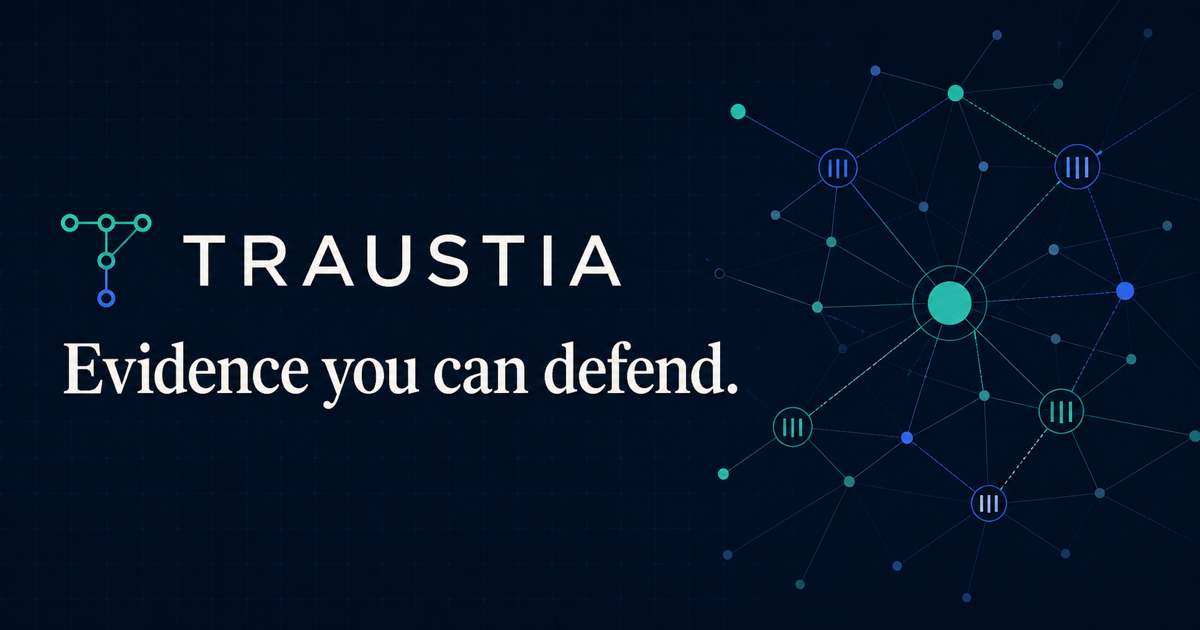
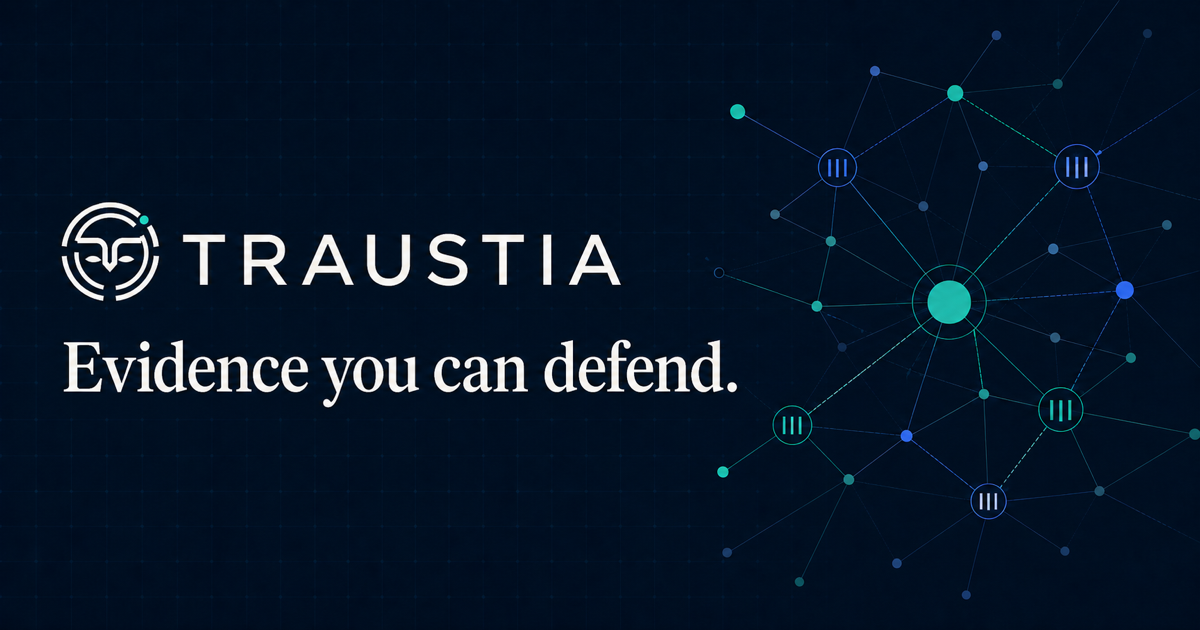
Unify Traustia around the owl Evidence Disc (#5)
Replace the old banner and scroll-rail symbols with the owl Evidence Disc, add a restrained orbiting evidence node, and preserve reduced-motion support.

diff --git a/src/styles.css b/src/styles.css
@@ -216,6 +216,11 @@ em {
   animation: evidence-node-resolve 3.2s ease-in-out infinite;
 }
 
+.brand-disc-node-orbit {
+  transform-origin: 128px 128px;
+  animation: evidence-node-orbit 12s linear infinite;
+}
+
 .wordmark:hover .brand-disc-ring-outer {
   animation: none;
   transform: rotate(9deg);
@@ -240,6 +245,18 @@ em {
 @keyframes evidence-node-resolve {
   0%, 72%, 100% { opacity: .82; transform: scale(.92); }
   82% { opacity: 1; transform: scale(1.18); }
+}
+
+@keyframes evidence-node-orbit {
+  to { transform: rotate(360deg); }
+}
+
+@keyframes scroll-orbit {
+  to { transform: rotate(360deg); }
+}
+
+@keyframes scroll-orbit-reverse {
+  to { transform: rotate(-360deg); }
 }
 
 .primary-nav {
@@ -980,84 +997,32 @@ em {
   position: absolute;
   left: 0;
   top: calc(var(--rail-progress) * 100%);
-  width: 46px;
-  height: 46px;
+  width: 52px;
+  height: 52px;
   transform: translate(-50%, -50%);
   transition: top 80ms linear, filter 450ms ease;
 }
 
-.scroll-object-orbit {
-  position: absolute;
-  inset: 5px;
-  border: 1px solid rgba(53, 197, 180, 0.52);
-  border-radius: 50%;
-  transition: inset 500ms ease, border-radius 500ms ease, border-color 500ms ease, transform 500ms ease;
-}
-
-.scroll-object-orbit.orbit-primary {
-  animation: scroll-orbit 8s linear infinite;
-}
-
-.scroll-object-orbit.orbit-secondary {
-  inset: 11px 1px;
-  border-color: rgba(91, 124, 250, 0.4);
-  animation: scroll-orbit-reverse 11s linear infinite;
-}
-
-.scroll-object-orbit::after {
-  content: "";
-  position: absolute;
-  width: 3px;
-  height: 3px;
-  right: 1px;
-  top: 3px;
-  border-radius: 50%;
-  background: var(--blue);
-  box-shadow: 0 0 8px var(--blue);
-}
-
-@keyframes scroll-orbit {
-  to { transform: rotate(360deg); }
-}
-
-@keyframes scroll-orbit-reverse {
-  to { transform: rotate(-360deg); }
-}
-
 .scroll-object-halo {
   position: absolute;
-  inset: -10px;
+  inset: -8px;
   border-radius: 50%;
-  background: radial-gradient(circle, rgba(53, 197, 180, 0.2), transparent 66%);
+  background: radial-gradient(circle, rgba(53, 197, 180, 0.22), transparent 68%);
   filter: blur(2px);
-  transition: opacity 500ms ease, transform 500ms ease;
+  transition: opacity 500ms ease, transform 500ms ease, background 500ms ease;
 }
 
-.scroll-object-core {
+.scroll-object > .brand-mark {
   position: absolute;
-  width: 10px;
-  height: 10px;
-  left: 18px;
-  top: 18px;
-  border-radius: 50%;
-  background: var(--teal);
-  box-shadow: 0 0 0 4px rgba(53, 197, 180, 0.12), 0 0 14px rgba(53, 197, 180, 0.9);
-  transition: width 500ms ease, height 500ms ease, left 500ms ease, top 500ms ease, border-radius 500ms ease, background 500ms ease, box-shadow 500ms ease;
+  inset: 0;
+  width: 52px;
+  height: 52px;
+  color: var(--white);
+  filter: drop-shadow(0 8px 14px rgba(0, 0, 0, .38));
+  transition: color 500ms ease, filter 500ms ease, transform 500ms ease;
 }
 
-.scroll-object-satellite {
-  position: absolute;
-  width: 3px;
-  height: 3px;
-  border-radius: 50%;
-  background: var(--teal);
-  transition: inset 500ms ease, transform 500ms ease, opacity 500ms ease, background 500ms ease;
-}
-
-.satellite-one { left: -2px; top: 21px; }
-.satellite-two { right: -1px; top: 7px; background: var(--blue); }
-.satellite-three { right: 3px; bottom: 2px; }
-.satellite-four { left: 8px; top: 1px; background: var(--blue); }
+.scroll-object .brand-disc-ring-inner { opacity: .6; }
 
 .scroll-phase-readout {
   position: absolute;
@@ -1096,33 +1061,11 @@ em {
   white-space: nowrap;
 }
 
-.scroll-evidence-rail[data-phase="0"] .satellite-one { transform: translate(-7px, 2px); }
-.scroll-evidence-rail[data-phase="0"] .satellite-two { transform: translate(5px, -4px); }
-.scroll-evidence-rail[data-phase="0"] .satellite-three { transform: translate(6px, 6px); }
-.scroll-evidence-rail[data-phase="1"] .orbit-secondary { inset: 8px 0; border-radius: 38%; }
-.scroll-evidence-rail[data-phase="1"] .satellite-four { transform: translate(7px, 4px); }
-.scroll-evidence-rail[data-phase="2"] .scroll-object-core {
-  background: #f0bd70;
-  box-shadow: 0 0 0 6px rgba(240, 189, 112, 0.1), 0 0 18px rgba(240, 189, 112, 0.82);
-}
-.scroll-evidence-rail[data-phase="2"] .scroll-object-orbit { border-style: dashed; }
-.scroll-evidence-rail[data-phase="3"] .scroll-object-core {
-  width: 14px;
-  height: 14px;
-  left: 16px;
-  top: 16px;
-}
 .scroll-evidence-rail[data-phase="3"] .scroll-object-halo { transform: scale(1.35); }
-.scroll-evidence-rail[data-phase="4"] .scroll-object-core {
-  width: 16px;
-  height: 16px;
-  left: 15px;
-  top: 15px;
-  border-radius: 4px;
-  background: var(--white);
-  box-shadow: 0 0 0 5px rgba(53, 197, 180, 0.18), 0 0 22px rgba(53, 197, 180, 0.9);
+.scroll-evidence-rail[data-phase="4"] .scroll-object > .brand-mark {
+  color: var(--teal);
+  filter: drop-shadow(0 0 14px rgba(53, 197, 180, .5));
 }
-.scroll-evidence-rail[data-phase="4"] .scroll-object-orbit { border-radius: 24%; }
 
 .scroll-evidence-rail ol {
   position: absolute;
@@ -3990,5 +3933,6 @@ em {
   .banner-scan,
   .risk-console::after { display: none; }
   .brand-disc-ring-outer,
+  .brand-disc-node-orbit,
   .brand-disc-node { animation: none !important; }
 }

diff --git a/src/components/TraustiaSite.tsx b/src/components/TraustiaSite.tsx
@@ -32,7 +32,9 @@ function BrandMark() {
           <path d="M75 141c10-10 26-10 36 2-13 7-27 6-36-2Z" />
           <path d="M181 141c-10-10-26-10-36 2 13 7 27 6 36-2Z" />
         </g>
-        <circle className="brand-disc-node" cx="205" cy="57" r="9" />
+        <g className="brand-disc-node-orbit">
+          <circle className="brand-disc-node" cx="205" cy="57" r="9" />
+        </g>
       </svg>
     </span>
   );
@@ -181,13 +183,7 @@ function ScrollEvidenceRail() {
         <span className="scroll-rail-fill" />
         <span className="scroll-object">
           <span className="scroll-object-halo" />
-          <span className="scroll-object-orbit orbit-primary" />
-          <span className="scroll-object-orbit orbit-secondary" />
-          <span className="scroll-object-core" />
-          <span className="scroll-object-satellite satellite-one" />
-          <span className="scroll-object-satellite satellite-two" />
-          <span className="scroll-object-satellite satellite-three" />
-          <span className="scroll-object-satellite satellite-four" />
+          <BrandMark />
           <span className="scroll-phase-readout">
             <span>{String(activeIndex + 1).padStart(2, "0")}</span>
             <strong>{scrollPhases[activeIndex].label}</strong>

diff --git a/brand/README.md b/brand/README.md
@@ -26,4 +26,4 @@ The Traustia Evidence Disc is a Great Gray Owl constructed from three evidence l
 
 ## Motion rules
 
-Website motion may rotate the evidence rings by no more than 12 degrees and pulse the evidence node. The owl face and central `T` must remain stable. Motion must be disabled when `prefers-reduced-motion: reduce` is active.
+Website motion may rotate the evidence rings by no more than 12 degrees and move the evidence node slowly along the outer disc. The owl face and central `T` must remain stable. A complete node orbit should take no less than 10 seconds, and motion must be disabled when `prefers-reduced-motion: reduce` is active.
